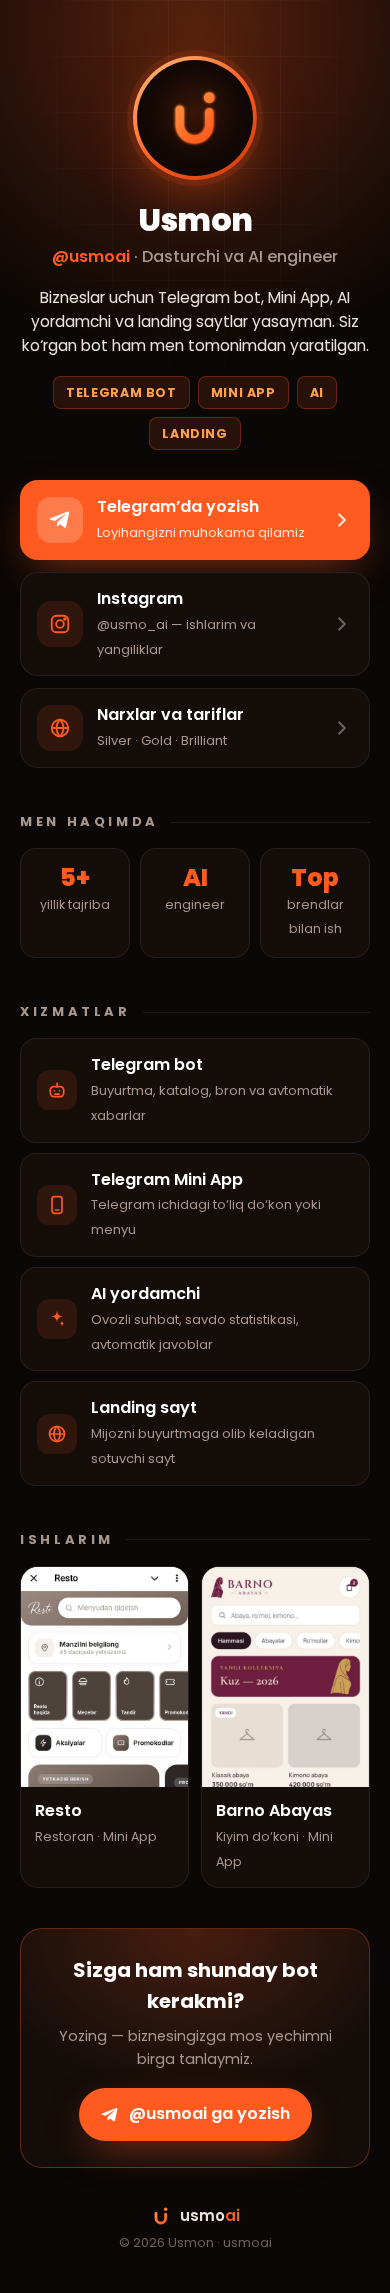
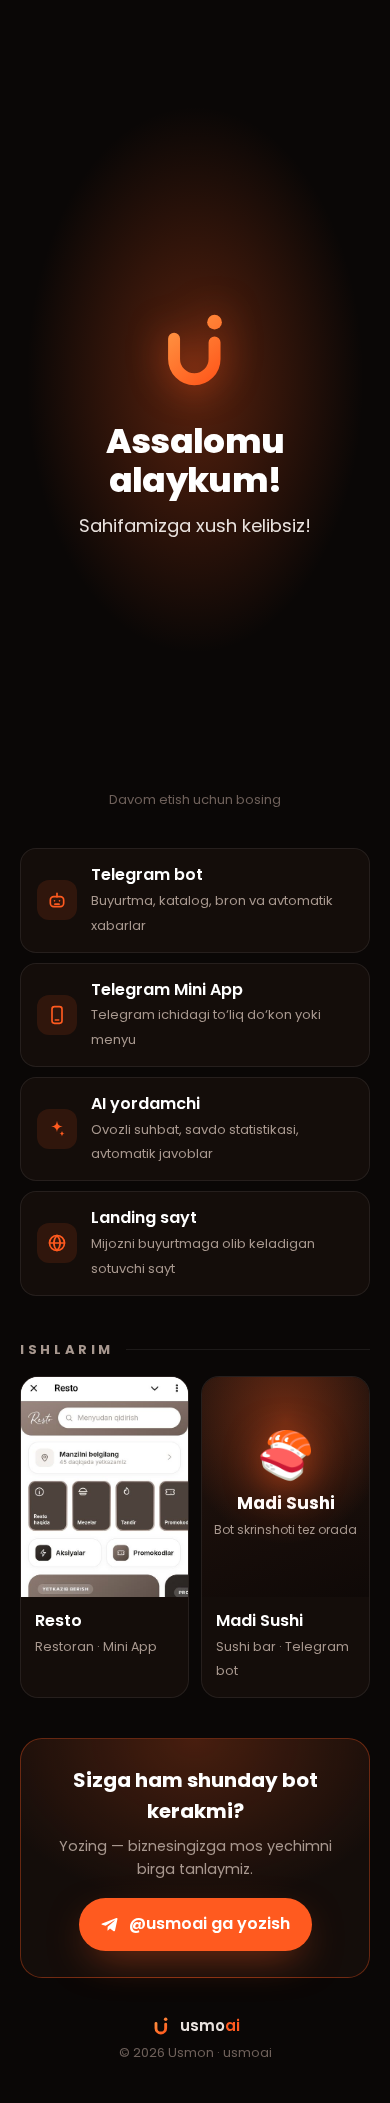
men: remove about stats, add Madi Sushi slot, welcome splash, bot prompt
Claude-Session: https://claude.ai/code/session_01XPL9uAwGZ6Paro4ETmKzuT

diff --git a/men/index.html b/men/index.html
@@ -11,6 +11,7 @@
 <meta name="theme-color" content="#0a0706">
 <link rel="icon" href="../brand/usmoai/favicon.svg" type="image/svg+xml">
 <link rel="apple-touch-icon" href="../brand/usmoai/apple-touch-icon.png">
+<script src="https://telegram.org/js/telegram-web-app.js"></script>
 <link rel="preconnect" href="https://fonts.googleapis.com">
 <link rel="preconnect" href="https://fonts.gstatic.com" crossorigin>
 <link href="https://fonts.googleapis.com/css2?family=Poppins:wght@400;500;600;700;800&display=swap" rel="stylesheet">
@@ -61,10 +62,6 @@
   /* Sections */
   h2 { margin: 44px 0 16px; font-size: 13px; font-weight: 700; letter-spacing: .28em; text-transform: uppercase; color: var(--muted); display: flex; align-items: center; gap: 12px; }
   h2::after { content: ""; flex: 1; height: 1px; background: var(--line); }
-  .stats { display: grid; grid-template-columns: repeat(3, 1fr); gap: 10px; }
-  .stat { padding: 16px 10px; border-radius: 16px; background: var(--surface); border: 1px solid var(--line); text-align: center; }
-  .stat b { display: block; font-size: 24px; font-weight: 800; color: var(--fire); line-height: 1.1; }
-  .stat span { font-size: 12.5px; color: var(--muted); }
   .services { display: grid; gap: 10px; }
   .svc { display: flex; gap: 14px; align-items: center; padding: 14px 16px; border-radius: 16px; background: var(--surface); border: 1px solid var(--line); }
   .svc .ic { flex: none; width: 40px; height: 40px; border-radius: 12px; display: grid; place-items: center; background: rgba(255,90,31,.12); color: var(--fire); }
@@ -75,6 +72,11 @@
   .work { border-radius: 18px; overflow: hidden; background: var(--surface); border: 1px solid var(--line); }
   .work .shot { height: 220px; overflow: hidden; background: #fff; }
   .work .shot img { width: 100%; height: auto; }
+  .work .shot.ph { display: grid; place-items: center; background: radial-gradient(90% 80% at 50% 20%, rgba(255,90,31,.35), transparent 70%), linear-gradient(160deg, #24140e, #0f0907); }
+  .ph-in { text-align: center; padding: 0 12px; }
+  .ph-ic { display: block; font-size: 46px; line-height: 1; margin-bottom: 12px; filter: drop-shadow(0 8px 18px rgba(255,90,31,.5)); }
+  .ph-in b { display: block; font-weight: 700; font-size: 17px; }
+  .ph-in small { color: var(--muted); font-size: 12px; }
   .work .cap { padding: 12px 14px 14px; }
   .work .cap b { display: block; font-weight: 600; }
   .work .cap small { color: var(--muted); font-size: 12.5px; }
@@ -88,6 +90,18 @@
   footer .logo svg { width: 22px; height: 22px; }
   footer .logo em { font-style: normal; color: var(--fire); }
   .btn:focus-visible, .lnk:focus-visible, a:focus-visible { outline: 2px solid var(--fire-2); outline-offset: 3px; }
+  /* Welcome splash — shown once per visitor */
+  .welcome { position: fixed; inset: 0; z-index: 50; display: grid; place-items: center; padding: 24px; text-align: center; cursor: pointer;
+             background: radial-gradient(60% 45% at 50% 45%, rgba(255,90,31,.32), transparent 72%), #0a0706; transition: opacity .6s ease, visibility .6s; }
+  .welcome.hide { opacity: 0; visibility: hidden; }
+  .welcome svg { width: 92px; height: 92px; margin: 0 auto 26px; filter: drop-shadow(0 0 18px rgba(255,90,31,.6)); animation: pop .8s cubic-bezier(.2,.9,.3,1.3) both; }
+  .welcome h1 { margin: 0; font-size: 34px; font-weight: 800; letter-spacing: -0.02em; line-height: 1.15; animation: up .7s .25s both; }
+  .welcome h1 span { color: var(--fire); }
+  .welcome p { margin: 12px 0 0; color: var(--soft); font-size: 18px; animation: up .7s .45s both; }
+  .welcome small { position: absolute; left: 0; right: 0; bottom: 34px; color: var(--dim); font-size: 13px; animation: up .7s 1s both; }
+  @keyframes pop { from { opacity: 0; transform: scale(.6); } to { opacity: 1; transform: none; } }
+  @keyframes up { from { opacity: 0; transform: translateY(14px); } to { opacity: 1; transform: none; } }
+  @media (prefers-reduced-motion: reduce) { .welcome svg, .welcome h1, .welcome p, .welcome small { animation: none; } }
   @media (max-width: 380px) { .works { grid-template-columns: 1fr; } .work .shot { height: 260px; } }
 </style>
 </head>
@@ -106,6 +120,13 @@
     <symbol id="i-ai" viewBox="0 0 24 24"><path fill="currentColor" d="M12 2c.6 4.6 2.4 6.4 7 7-4.6.6-6.4 2.4-7 7-.6-4.6-2.4-6.4-7-7 4.6-.6 6.4-2.4 7-7zm6 12c.3 2.3 1.2 3.2 3.5 3.5-2.3.3-3.2 1.2-3.5 3.5-.3-2.3-1.2-3.2-3.5-3.5 2.3-.3 3.2-1.2 3.5-3.5z"/></symbol>
   </defs>
 </svg>
+
+<div class="welcome" id="welcome" role="dialog" aria-label="Xush kelibsiz" hidden>
+  <div><svg viewBox="0 0 100 100" aria-hidden="true"><use href="#i-usmo"/></svg>
+  <h1>Assalomu alaykum!</h1>
+  <p>Sahifamizga xush kelibsiz!</p></div>
+  <small>Davom etish uchun bosing</small>
+</div>
 
 <div class="bg" aria-hidden="true"></div>
 
@@ -130,13 +151,6 @@
     </a>
   </nav>
 
-  <h2>Men haqimda</h2>
-  <div class="stats">
-    <div class="stat"><b>5+</b><span>yillik tajriba</span></div>
-    <div class="stat"><b>AI</b><span>engineer</span></div>
-    <div class="stat"><b>Top</b><span>brendlar bilan ish</span></div>
-  </div>
-
   <h2>Xizmatlar</h2>
   <div class="services">
     <div class="svc"><span class="ic"><svg><use href="#i-bot"/></svg></span><div><b>Telegram bot</b><small>Buyurtma, katalog, bron va avtomatik xabarlar</small></div></div>
@@ -148,7 +162,7 @@
   <h2>Ishlarim</h2>
   <div class="works">
     <div class="work"><div class="shot"><img src="../img/resto-miniapp.jpg" width="460" height="977" loading="lazy" alt="Resto Telegram Mini App"></div><div class="cap"><b>Resto</b><small>Restoran · Mini App</small></div></div>
-    <div class="work"><div class="shot"><img src="../img/barno-miniapp.jpg" width="460" height="994" loading="lazy" alt="Barno Abayas Telegram Mini App"></div><div class="cap"><b>Barno Abayas</b><small>Kiyim do‘koni · Mini App</small></div></div>
+    <div class="work"><div class="shot ph" data-shot="madi"><div class="ph-in"><span class="ph-ic">🍣</span><b>Madi Sushi</b><small>Bot skrinshoti tez orada</small></div></div><div class="cap"><b>Madi Sushi</b><small>Sushi bar · Telegram bot</small></div></div>
   </div>
 
   <div class="cta">
@@ -162,6 +176,24 @@
     <div>© <span id="y">2026</span> Usmon · usmoai</div>
   </footer>
 </main>
-<script>document.getElementById("y").textContent = new Date().getFullYear();</script>
+<script>
+  document.getElementById("y").textContent = new Date().getFullYear();
+
+  // Inside Telegram (Mini App button): tell Telegram the page is ready and open it full height
+  const tg = window.Telegram && window.Telegram.WebApp;
+  if (tg && tg.initData !== undefined) { try { tg.ready(); tg.expand(); tg.setHeaderColor("#0a0706"); tg.setBackgroundColor("#0a0706"); } catch (_) {} }
+
+  // Welcome splash: shown on the first visit only, closes by itself or on tap
+  (function () {
+    const w = document.getElementById("welcome");
+    let seen = false;
+    try { seen = localStorage.getItem("usmoai-welcome") === "1"; } catch (_) {}
+    if (seen) return;
+    w.hidden = false;
+    const close = () => { w.classList.add("hide"); try { localStorage.setItem("usmoai-welcome", "1"); } catch (_) {} };
+    w.addEventListener("click", close);
+    setTimeout(close, 2800);
+  })();
+</script>
 </body>
 </html>

diff --git a/men/BOT-PROMPT.md b/men/BOT-PROMPT.md
@@ -1,0 +1,71 @@
+# Botga "Bot yaratuvchisi" tugmasini qo'shish — prompt
+
+Quyidagi promptni botni yozayotgan AI'ga (Claude, ChatGPT va h.k.) to'liq nusxalab bering.
+
+---
+
+## PROMPT (nusxalang)
+
+```
+Mening Telegram botimga "Bot yaratuvchisi" tugmasini qo'sh. Talablar:
+
+1. Tugma matni: "🤖 Bot yaratuvchisi: usmoai"
+2. Tugma bosilganda Telegram ichida Mini App (WebApp) sifatida shu sayt ochilsin:
+   https://usmoon07-blip.github.io/Landing-sahifa-test/men/
+   - Inline klaviaturada `web_app` turidagi tugma ishlat (InlineKeyboardButton(web_app=WebAppInfo(url=...))).
+   - Agar `web_app` tugmasi ishlamaydigan joy bo'lsa (masalan guruh chatlari), oddiy `url` tugmaga o'tsin.
+3. Tugma qayerda chiqsin:
+   - /start xabarining eng pastida (asosiy menyu tugmalaridan keyin, alohida qatorda).
+   - "ℹ Bot haqida" (yoki /about) bo'limida ham.
+   - Botning asosiy funksiyalarini to'smasin — har doim eng oxirgi qatorda tursin.
+4. Ixtiyoriy: /about matni oxiriga kichik yozuv qo'sh:
+   "Bot yaratuvchisi: @usmoai — o'zingizga ham shunday bot kerakmi?"
+5. Botning mavjud kodini, tugmalarini va logikasini buzma — faqat shu tugmani qo'sh.
+6. Sayt URL'ini bitta konstantada saqla (CREATOR_URL), keyin oson o'zgartirish uchun.
+7. O'zgargan fayllarni to'liq ko'rsat va qisqacha nima qilganingni tushuntir.
+```
+
+---
+
+## Namuna kod (aiogram 3)
+
+```python
+from aiogram import Router, F
+from aiogram.filters import CommandStart, Command
+from aiogram.types import (Message, InlineKeyboardMarkup,
+                           InlineKeyboardButton, WebAppInfo)
+
+CREATOR_URL = "https://usmoon07-blip.github.io/Landing-sahifa-test/men/"
+CREATOR_TEXT = "🤖 Bot yaratuvchisi: usmoai"
+
+router = Router()
+
+def creator_button(private: bool = True) -> InlineKeyboardButton:
+    # Shaxsiy chatda Mini App, guruhda oddiy link
+    if private:
+        return InlineKeyboardButton(text=CREATOR_TEXT, web_app=WebAppInfo(url=CREATOR_URL))
+    return InlineKeyboardButton(text=CREATOR_TEXT, url=CREATOR_URL)
+
+def main_menu(private: bool = True) -> InlineKeyboardMarkup:
+    return InlineKeyboardMarkup(inline_keyboard=[
+        # ... botning asosiy tugmalari shu yerda ...
+        [creator_button(private)],  # har doim oxirgi qator
+    ])
+
+@router.message(CommandStart())
+async def start(msg: Message):
+    await msg.answer("Xush kelibsiz!", reply_markup=main_menu(msg.chat.type == "private"))
+
+@router.message(Command("about"))
+async def about(msg: Message):
+    await msg.answer(
+        "Bot haqida ma'lumot...\n\n"
+        "Bot yaratuvchisi: @usmoai — o'zingizga ham shunday bot kerakmi?",
+        reply_markup=InlineKeyboardMarkup(inline_keyboard=[[creator_button(msg.chat.type == "private")]]),
+    )
+```
+
+## Muhim
+
+- Sayt Mini App'da ochilganda birinchi marta **"Assalomu alaykum! Sahifamizga xush kelibsiz!"** tanishuv oynasi chiqadi (keyingi safar chiqmaydi).
+- Mijoz botiga "Bot yaratuvchisi" yozuvini qo'yishdan oldin mijozdan ruxsat oling.
